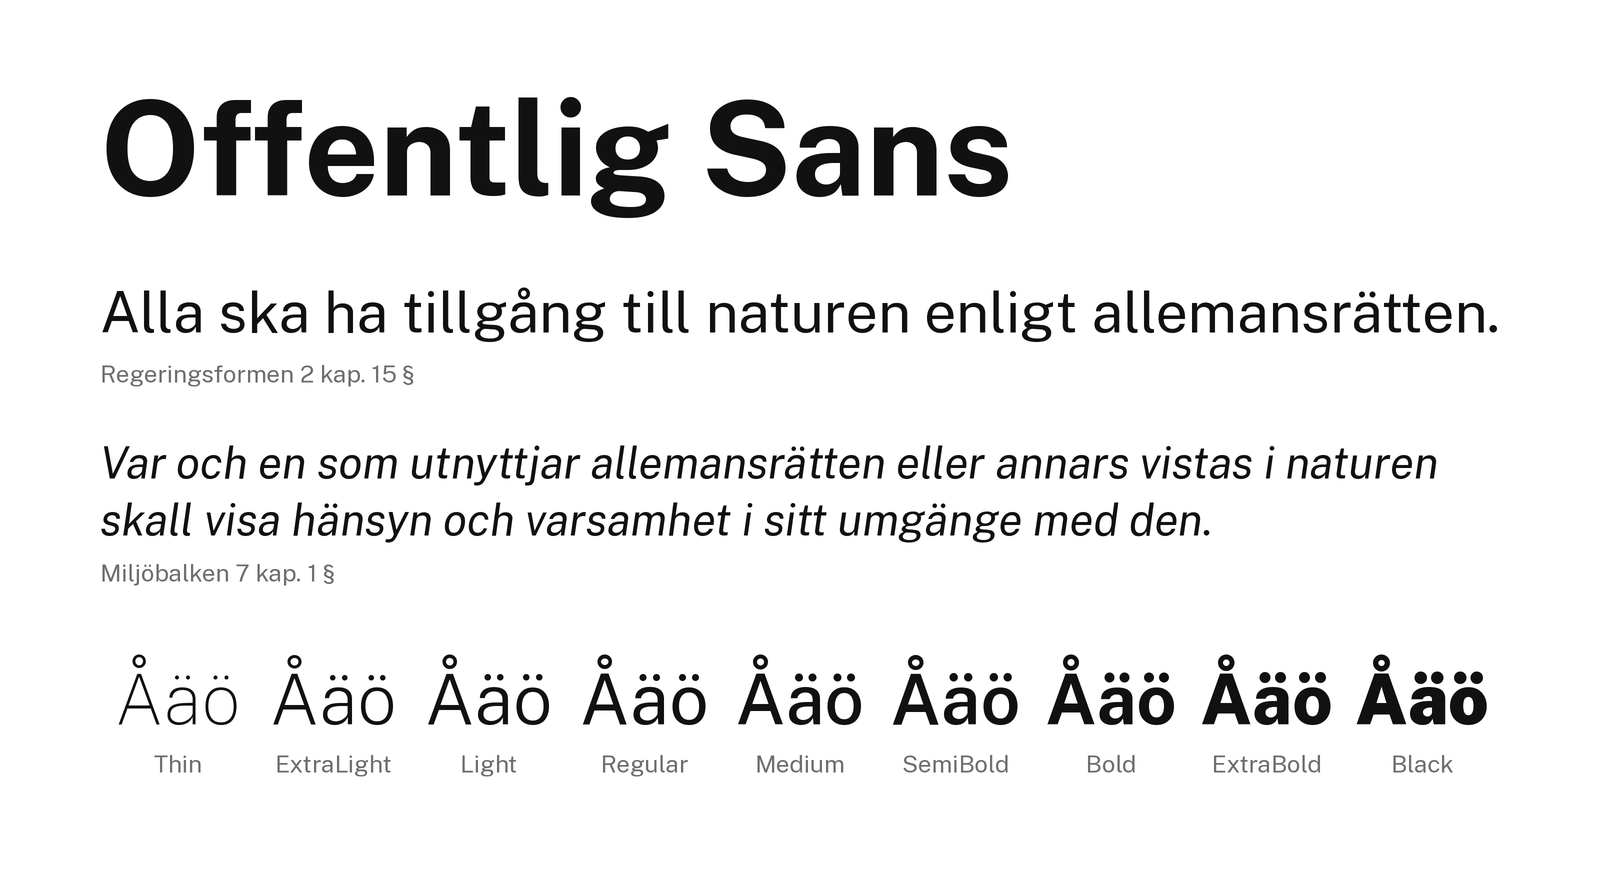
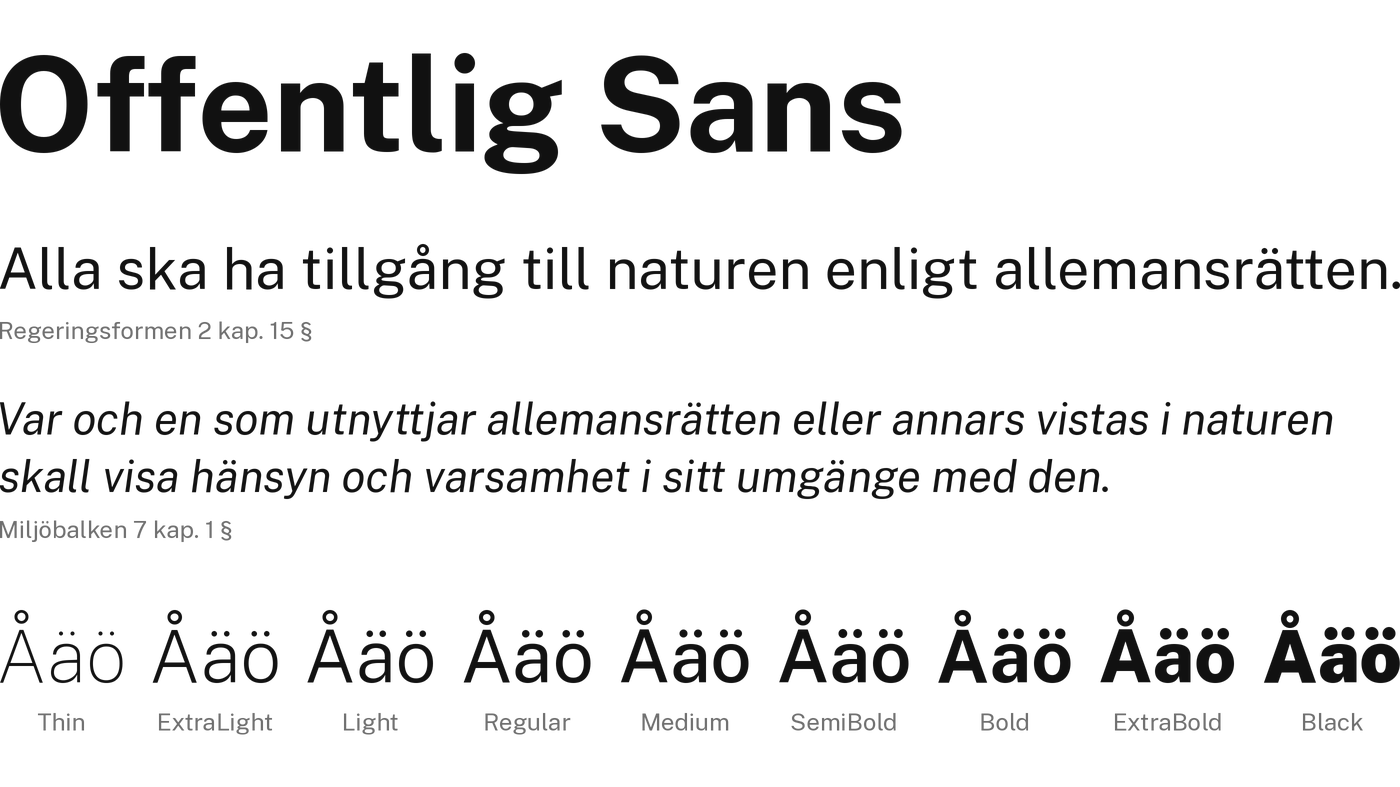
docs(readme): set the specimen flush with the text, with a dark version
The specimen had 100 px side margins inside the image, so it sat indented from the README text. Lines now start at
their ink edge and the first quote and the weight row reach the right edge; top and bottom margins are 56 px. The
background is transparent, and docs/specimen-dark.png, chosen by a <picture> source in a dark color scheme, uses
GitHub's dark text colors instead of showing a white box.

diff --git a/scripts/specimen.py b/scripts/specimen.py
@@ -1,4 +1,6 @@
-"""Render docs/specimen.png from the built static TTFs, quoting the statutes in docs/proof/allemansratten.txt.
+"""Render docs/specimen.png and docs/specimen-dark.png from the built static TTFs, quoting the statutes in
+docs/proof/allemansratten.txt. Both have a transparent background and no side margins, so every line starts at the
+README's text edge; the README picks the dark one in a dark color scheme.
 
 With --social it renders build/social-preview.png instead: the 1280 x 640 image GitHub shows when a link to the
 repository is shared, uploaded by hand under Settings > General > Social preview.
@@ -17,11 +19,13 @@ from PIL import Image, ImageDraw, ImageFont
 ROOT = Path(__file__).resolve().parent.parent
 TTF = ROOT / "fonts" / "OffentligSans" / "ttf"
 OUT = ROOT / "docs" / "specimen.png"
+DARK_OUT = ROOT / "docs" / "specimen-dark.png"
 SOCIAL_OUT = ROOT / "build" / "social-preview.png"
 
-WIDTH, MARGIN, SS = 1600, 100, 2
-CONTENT = WIDTH - 2 * MARGIN
+WIDTH, MARGIN, SS = 1400, 56, 2
 INK, MUTED = (17, 17, 17), (110, 110, 110)
+# GitHub's dark theme text colors.
+DARK_INK, DARK_MUTED = (240, 246, 252), (145, 152, 161)
 WEIGHTS = ["Thin", "ExtraLight", "Light", "Regular", "Medium", "SemiBold", "Bold", "ExtraBold", "Black"]
 
 QUOTE_RF = "Alla ska ha tillgång till naturen enligt allemansrätten."
@@ -107,37 +111,65 @@ def fit(style, text, max_width):
 
 
 def main():
-    title_size = 132
-    rf_size = fit("Regular", QUOTE_RF, CONTENT)
-    mb_size = 44
-    caption_size = 24
-    mb_lines = wrap("Italic", QUOTE_MB, mb_size, CONTENT)
-    column = CONTENT / len(WEIGHTS)
-    sample_size = min(fit("Black", WEIGHT_SAMPLE, column * 0.86), 92)
+    """Every line is placed by its ink, so all of them start at the left edge; the first quote and the weight row also
+    end at the right edge."""
+    title, title_size, mb_size, caption_size = "Offentlig Sans", 132, 44, 24
+    left, right = ink("Regular", QUOTE_RF, 1)
+    rf_size = WIDTH / (right - left)
+    mb_lines = wrap("Italic", QUOTE_MB, mb_size, WIDTH)
+
+    # Weight row: the samples' ink spans the full width, with equal gaps between them.
+    sample_size = 92
+    while True:
+        spans = [ink(weight, WEIGHT_SAMPLE, sample_size) for weight in WEIGHTS]
+        gap = (WIDTH - sum(r - l for l, r in spans)) / (len(WEIGHTS) - 1)
+        if gap >= sample_size * 0.4:
+            break
+        sample_size -= 1
+
+    def at_edge(kind, style, text, size, baseline):
+        return (kind, style, text, size, -ink(style, text, size)[0], baseline)
 
     # Vertical layout: baselines measured from the top margin. Cap height is 0.723 em.
     y = MARGIN + 0.723 * title_size
-    plan = [("line", "Bold", "Offentlig Sans", title_size, MARGIN, y, INK)]
+    plan = [at_edge("ink", "Bold", title, title_size, y)]
     y += 0.723 * rf_size + 96
-    plan.append(("line", "Regular", QUOTE_RF, rf_size, MARGIN, y, INK))
+    plan.append(at_edge("ink", "Regular", QUOTE_RF, rf_size, y))
     y += 50
-    plan.append(("line", "Regular", SOURCE_RF, caption_size, MARGIN, y, MUTED))
+    plan.append(at_edge("muted", "Regular", SOURCE_RF, caption_size, y))
     y += 0.723 * mb_size + 64
     for i, text in enumerate(mb_lines):
-        plan.append(("line", "Italic", text, mb_size, MARGIN, y, INK))
+        plan.append(at_edge("ink", "Italic", text, mb_size, y))
         y += mb_size * 1.3 if i < len(mb_lines) - 1 else 0
     y += 46
-    plan.append(("line", "Regular", SOURCE_MB, caption_size, MARGIN, y, MUTED))
+    plan.append(at_edge("muted", "Regular", SOURCE_MB, caption_size, y))
     y += 0.723 * sample_size + 92
-    for i, weight in enumerate(WEIGHTS):
-        left = MARGIN + i * column
-        w = width(weight, WEIGHT_SAMPLE, sample_size)
-        plan.append(("line", weight, WEIGHT_SAMPLE, sample_size, left + (column - w) / 2, y, INK))
-        lw = width("Regular", weight, caption_size)
-        plan.append(("line", "Regular", weight, caption_size, left + (column - lw) / 2, y + 48, MUTED))
+    x = 0
+    for weight, (l, r) in zip(WEIGHTS, spans):
+        plan.append(("ink", weight, WEIGHT_SAMPLE, sample_size, x - l, y))
+        label = width("Regular", weight, caption_size)
+        plan.append(("muted", "Regular", weight, caption_size, x + (r - l - label) / 2, y + 48))
+        x += (r - l) + gap
     height = round(y + 48 + MARGIN)
 
-    render(plan, WIDTH, height, OUT)
+    render_transparent(plan, WIDTH, height, {"ink": INK, "muted": MUTED}, OUT)
+    render_transparent(plan, WIDTH, height, {"ink": DARK_INK, "muted": DARK_MUTED}, DARK_OUT)
+
+
+def render_transparent(plan, page_width, page_height, colors, out):
+    """Draw each color's lines as a coverage mask, then color the masks, so antialiased edges carry no background."""
+    page = Image.new("RGBA", (page_width, page_height), (0, 0, 0, 0))
+    for kind in ("muted", "ink"):
+        mask = Image.new("L", (page_width * SS, page_height * SS), 0)
+        draw = ImageDraw.Draw(mask)
+        for line_kind, style, text, size, x, baseline in plan:
+            if line_kind == kind:
+                draw_line(draw, style, text, size, x, baseline, 255)
+        layer = Image.new("RGBA", (page_width, page_height), colors[kind] + (255,))
+        layer.putalpha(mask.resize((page_width, page_height), Image.Resampling.LANCZOS))
+        page = Image.alpha_composite(page, layer)
+    page.save(out, optimize=True)
+    print(f"wrote {out.relative_to(ROOT)} ({page_width} x {page_height})")
 
 
 def render(plan, page_width, page_height, out):

diff --git a/CONTRIBUTING.md b/CONTRIBUTING.md
@@ -17,7 +17,7 @@ make build     # fonts/OffentligSans/{otf,ttf,variable,webfonts}
 make test      # pytest -n 3 --dist worksteal against the built fonts (override with PYTEST_JOBS=auto)
 make qa        # Fontspector universal and OpenType profiles, expected 0 FAIL
 make proof     # tester page (docs/proof/allemansratten.txt) and Diffenator2 proof pages in build/proof
-make specimen  # docs/specimen.png from the built TTFs and the Allemansrätten text
+make specimen  # docs/specimen.png and specimen-dark.png from the built TTFs and the Allemansrätten text
 make social-preview  # build/social-preview.png, 1280 x 640, uploaded by hand under Settings > General > Social preview
 make diff-public-sans  # Diffenator2 comparison with Public Sans at e40fcf567 (cloned into build/public-sans-reference), in build/diff-public-sans (skipped, keeping the old report, when that folder exists: move it aside first)
 make diff-main  # Diffenator2 comparison with origin/main (a plain copy of its files built in build/main-reference, rebuilt when origin/main moves), in build/diff-main
@@ -57,7 +57,7 @@ This project follows a shared house style for wording, punctuation, and headings
 1. Check the pull requests this fork sent to Public Sans ([#396](https://github.com/uswds/public-sans/pull/396), [#397](https://github.com/uswds/public-sans/pull/397), [#398](https://github.com/uswds/public-sans/pull/398)). When one has merged or closed, say so in `README.md` and `ROADMAP.md`, and compare the merged change with this fork's fix.
 2. Rename `## [Unreleased]` in `CHANGELOG.md` to `## [X.Y.Z] - YYYY-MM-DD`, and update the version in `sources/*.ufo/fontinfo.plist` (`versionMajor`, `versionMinor`). Package version `0.X.Y` becomes font version `0.(X × 100 + Y)`.
 3. Run `make build test qa`. The version test compares name ID 5 of every built font with `versionMajor` and `versionMinor` in the masters, so it fails on a stale build or masters that disagree.
-4. Run `make specimen` to refresh `docs/specimen.png` and `make social-preview` to write `build/social-preview.png`, and upload the preview by hand.
+4. Run `make specimen` to refresh `docs/specimen.png` and `docs/specimen-dark.png` and `make social-preview` to write `build/social-preview.png`, and upload the preview by hand.
 5. Run `scripts/release_notes.sh X.Y.Z` to check the release notes before tagging: the release job fails without them, and a tag is never moved.
 6. Commit the release, then tag it as an annotated tag named `vX.Y.Z` with the release commit's subject as the message (`git tag -a vX.Y.Z -m "<subject>"`), and push the tag. Tags are never moved or reused.
 7. CI builds the fonts, runs the tests and Fontspector, zips `fonts/OffentligSans/` and `LICENSE` as `OffentligSans-X.Y.Z.zip` and creates a draft GitHub release with the zip attached (ADR-0002) and that version's `CHANGELOG.md` section as its notes. The release job fails if the section is missing or empty.

diff --git a/ARCHITECTURE.md b/ARCHITECTURE.md
@@ -16,12 +16,12 @@ scripts/verify_commit.sh           pre-commit verification
 scripts/commit-checks              loader for the shared commit-checks package: secrets, home paths, emails, private names, conflict markers, hooks (pinned in .commit-checks.json)
 scripts/release_notes.sh           CHANGELOG.md section for one version, used as the release notes
 scripts/proof_page.py              tester page from docs/proof/allemansratten.txt (make proof)
-scripts/specimen.py                docs/specimen.png and the social preview (make specimen, make social-preview)
+scripts/specimen.py                docs/specimen.png, docs/specimen-dark.png and the social preview (make specimen, make social-preview)
 scripts/fsp_summary.py             summary of the Fontspector reports (make qa)
 .github/workflows/ci.yaml          CI: build, test, Fontspector; draft release with zip and LICENSE on v* tags
 .github/workflows/commit-checks.yml   CI: the shared commit checks, including conflict markers and the house style check (Vale)
 CONTRIBUTING.md                    contributor guide
-docs/                              docs/design-decisions.md (decision register), docs/adr/, docs/proof/ (tester text) and docs/specimen.png
+docs/                              docs/design-decisions.md (decision register), docs/adr/, docs/proof/ (tester text) and the README specimens
 fonts/OffentligSans/{otf,ttf,variable,webfonts}/    build output, gitignored
 build/                             Fontspector, proof and Diffenator2 output and the reference builds they compare against, gitignored
 ```

diff --git a/README.md b/README.md
@@ -2,7 +2,10 @@
 
 Offentlig is a planned open-source font superfamily. Offentlig Sans is the first member: a renamed fork of [Public Sans](https://github.com/uswds/public-sans) with correct Swedish letters. Serif and Mono families are planned but not yet started.
 
-![Offentlig Sans specimen](docs/specimen.png)
+<picture>
+  <source media="(prefers-color-scheme: dark)" srcset="docs/specimen-dark.png">
+  <img alt="Offentlig Sans specimen" src="docs/specimen.png">
+</picture>
 
 <!-- vale HouseStyle.Headings = NO -->
 ## Offentlig Sans
